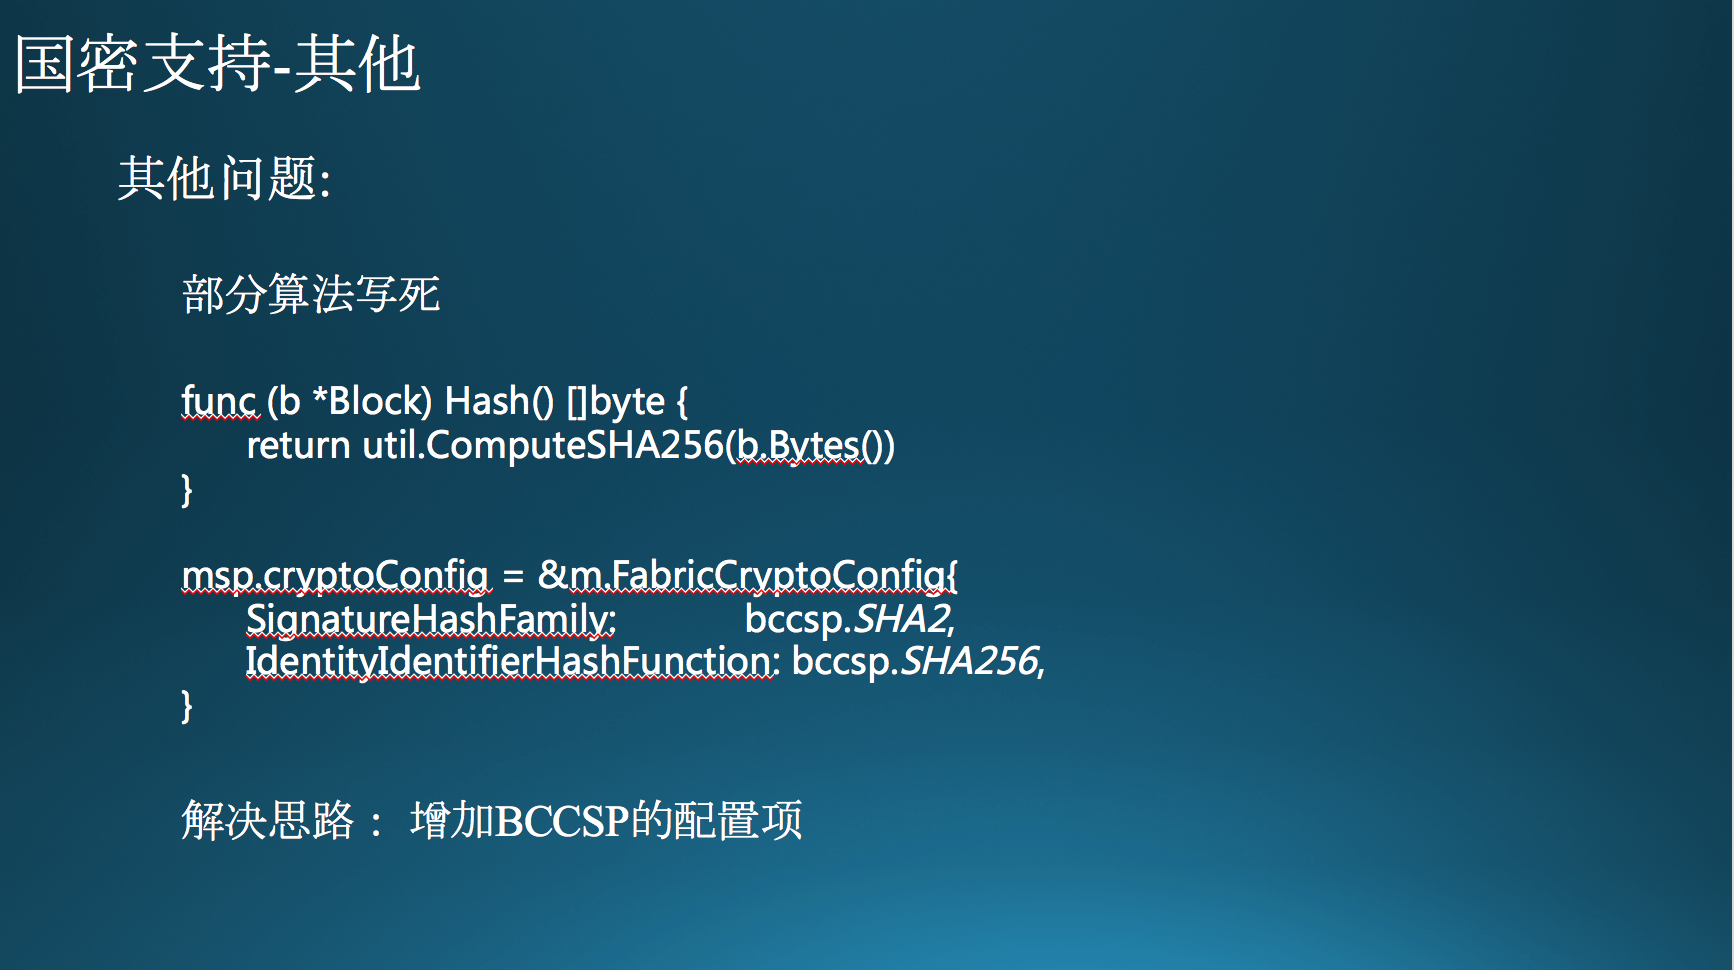
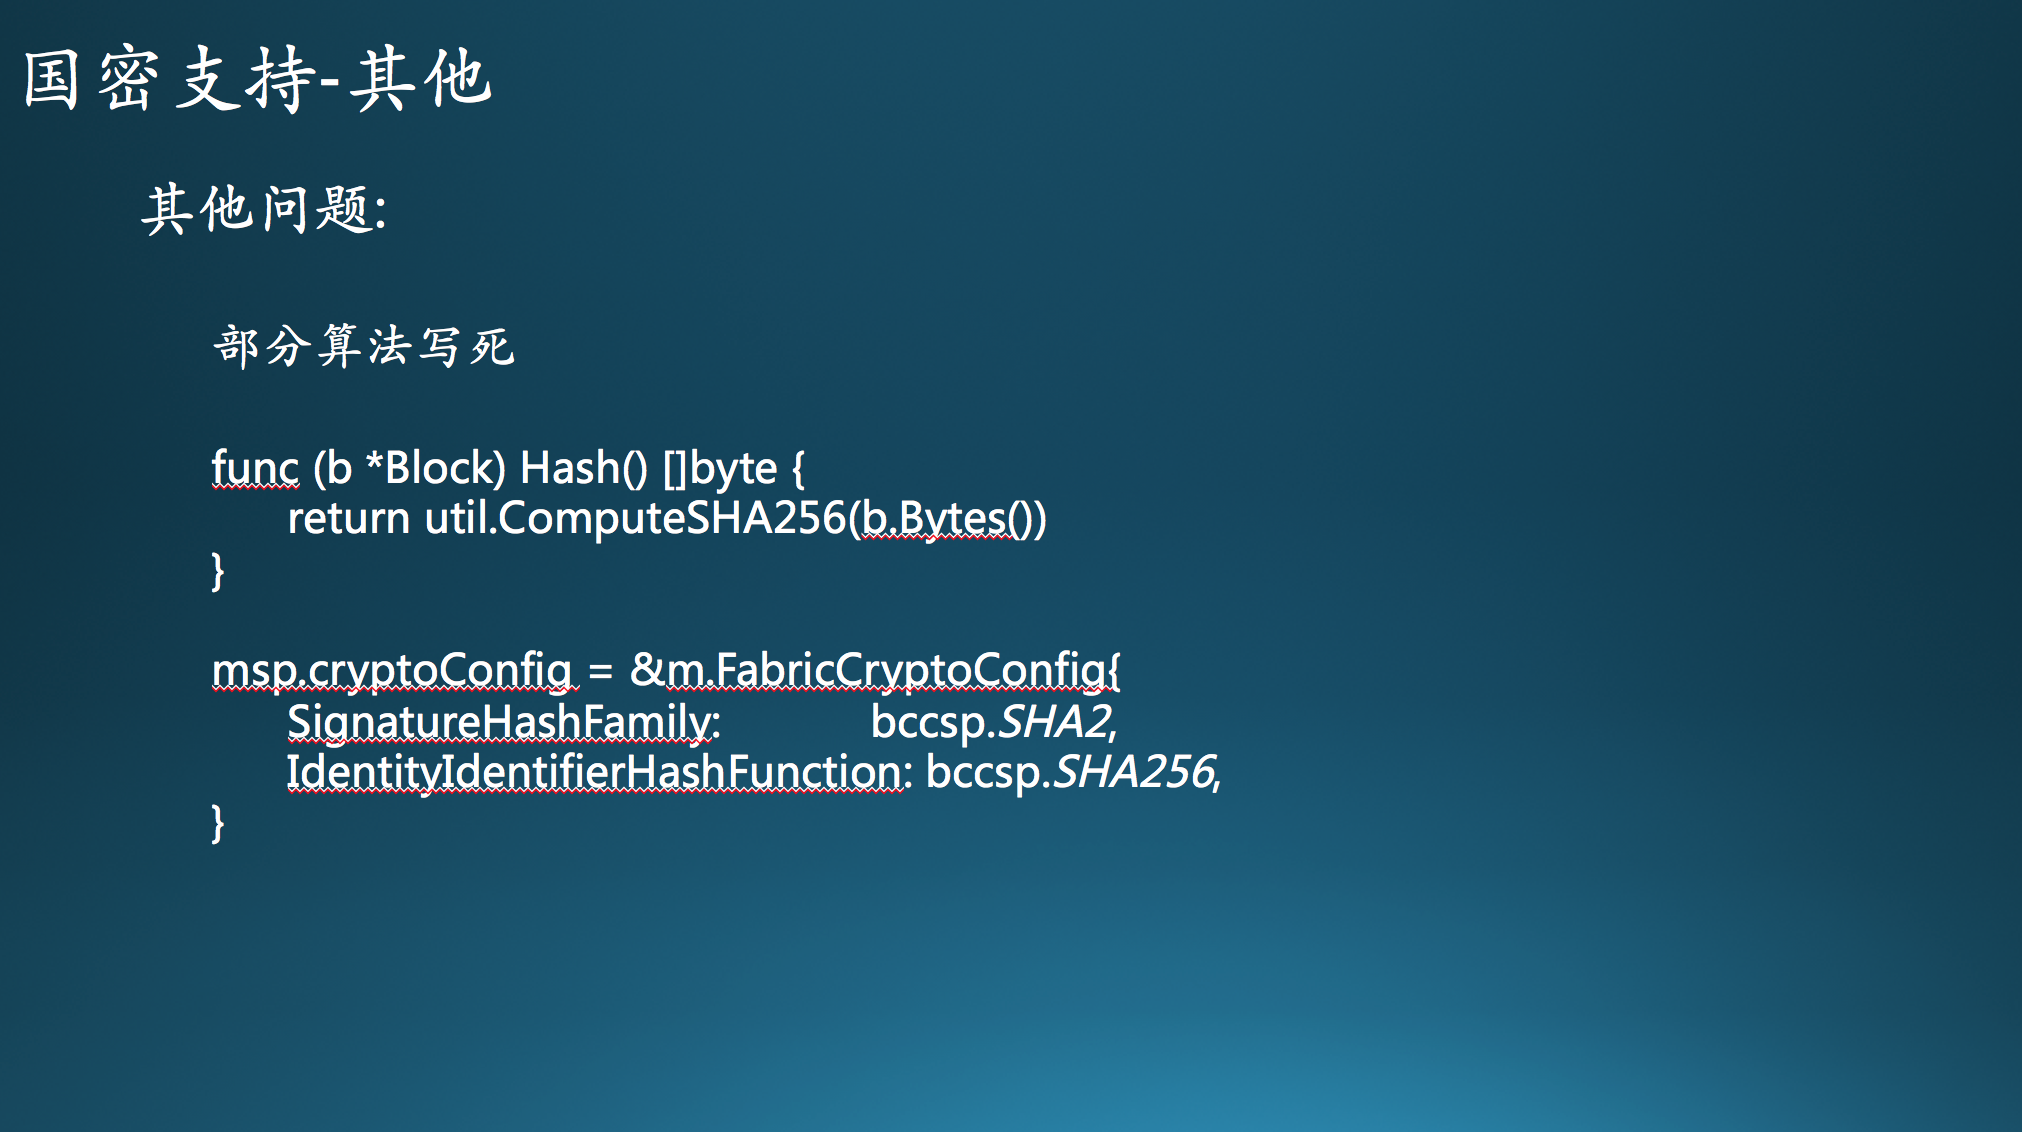
Update content and p15.png

diff --git a/20171206_SM2/content.md b/20171206_SM2/content.md
@@ -149,7 +149,7 @@ baseimage 相关内容可以从 (官方仓库)[https://github.com/hyperledger/fa
 ### Page 15
 ![slide15](_images/p15.png)
 
-那么国密支持还有一些问题，是需要注意的，系统中有些调用算法的部分，是 hard code 进去的，比如区块的 hash 部分。这部分可以通过在配置文件中增加项来解决，做到所用到算法全程配置。
+那么国密支持还有一些问题，是需要注意的，系统中有些调用算法的部分，是 hard code 进去的，比如区块的hash部分,区块的hash部分现在是写死成sha256的，但是值得注意的是，channel config部分里面是有配置区块hash算法的。可以通过配置HashingAlgorithm参数来指定使用的hash算法，可惜当前版本并没有开放配置功能。
 
 当然另一个问题是，是否系统中所有的算法都需要替换成国密标准，这个也是需要考虑的地方。
 
@@ -160,7 +160,7 @@ baseimage 相关内容可以从 (官方仓库)[https://github.com/hyperledger/fa
 
 - CA 可以考虑使用现有的国密 CA 系统，也可以考虑通过 Fabric-CA 来做搭建，fabric-ca 沿用 fabric 中的 BCCSP 套件，所以支持上难度也不大。
 
-- client-sdk现在有很多种版本，所以有一些工作量在里面。好在每个版本的密码服务套件都是插件化的，比如 node 里面可以实现一套支持国密的 CryptoSuite 来提供支持。
+- client-sdk现在有很多种版本，所以有一些工作量在里面。好在每个版本的密码服务套件都是插件化的，比如 node 里面可以实现一套支持国密的 CryptoSuite 来提供支持,当然node里面还是要对jsrsasign模块x509相关部分进行定制。
 
 ### Page 17
 ![slide16](_images/p17.png)
